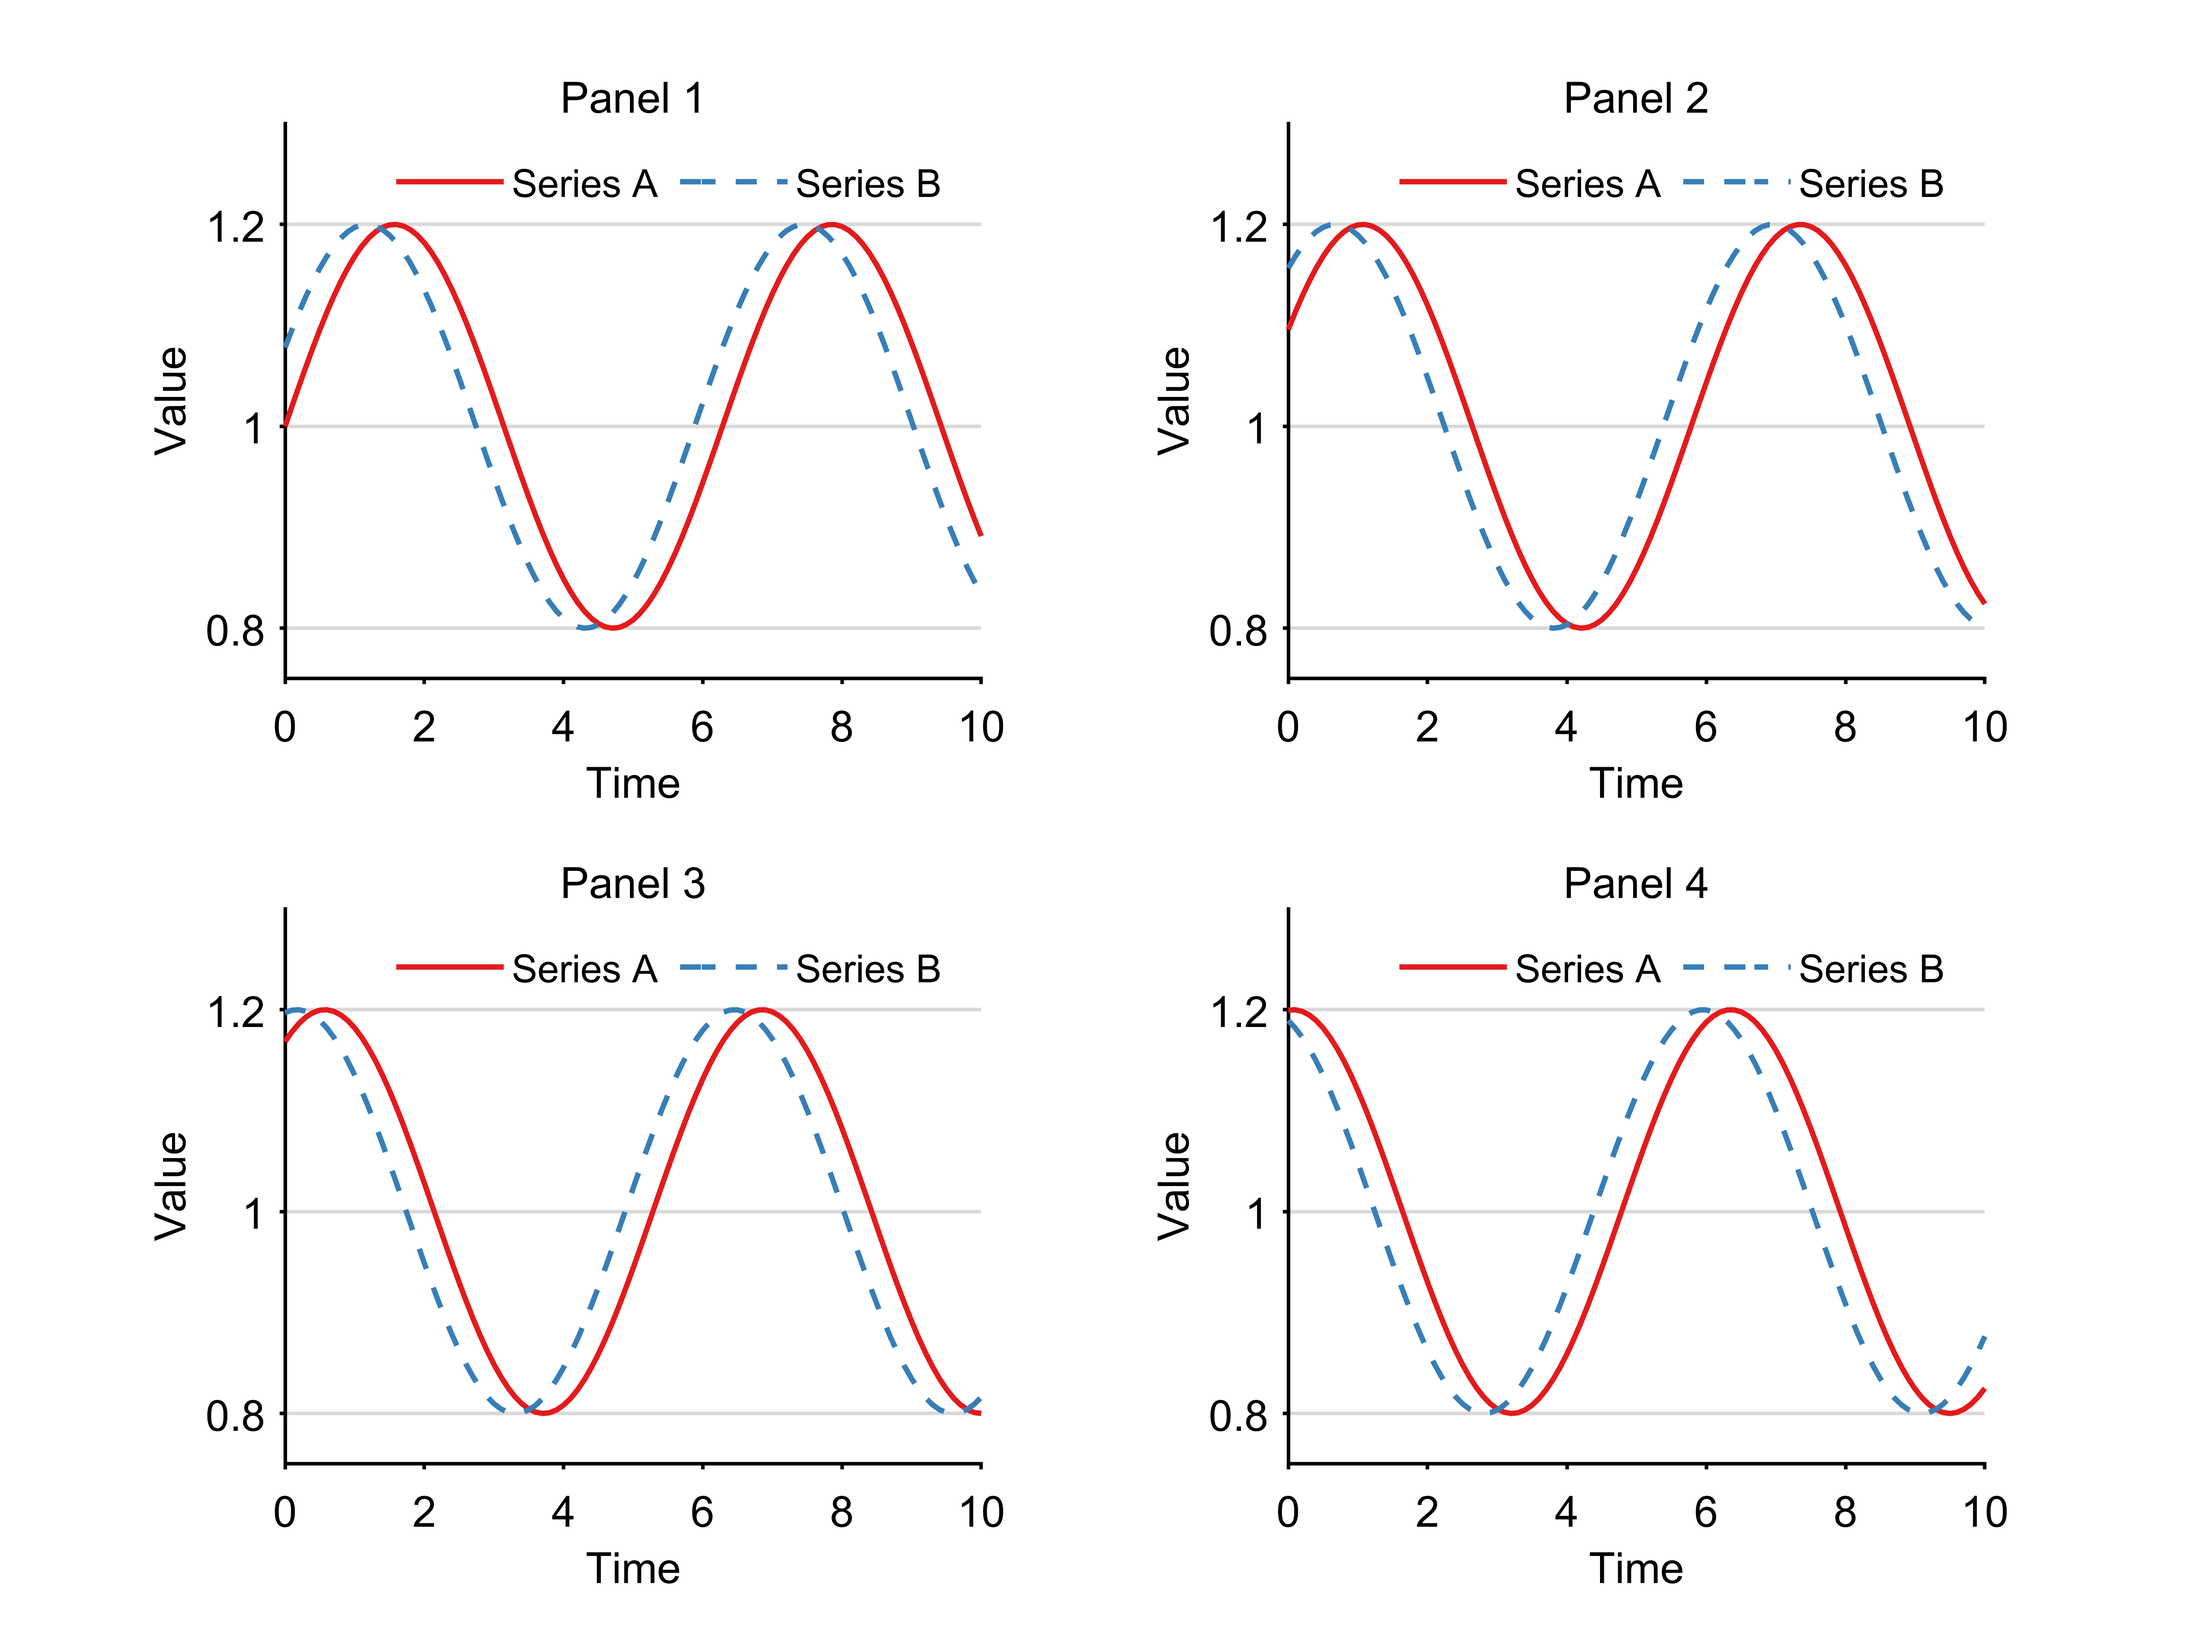
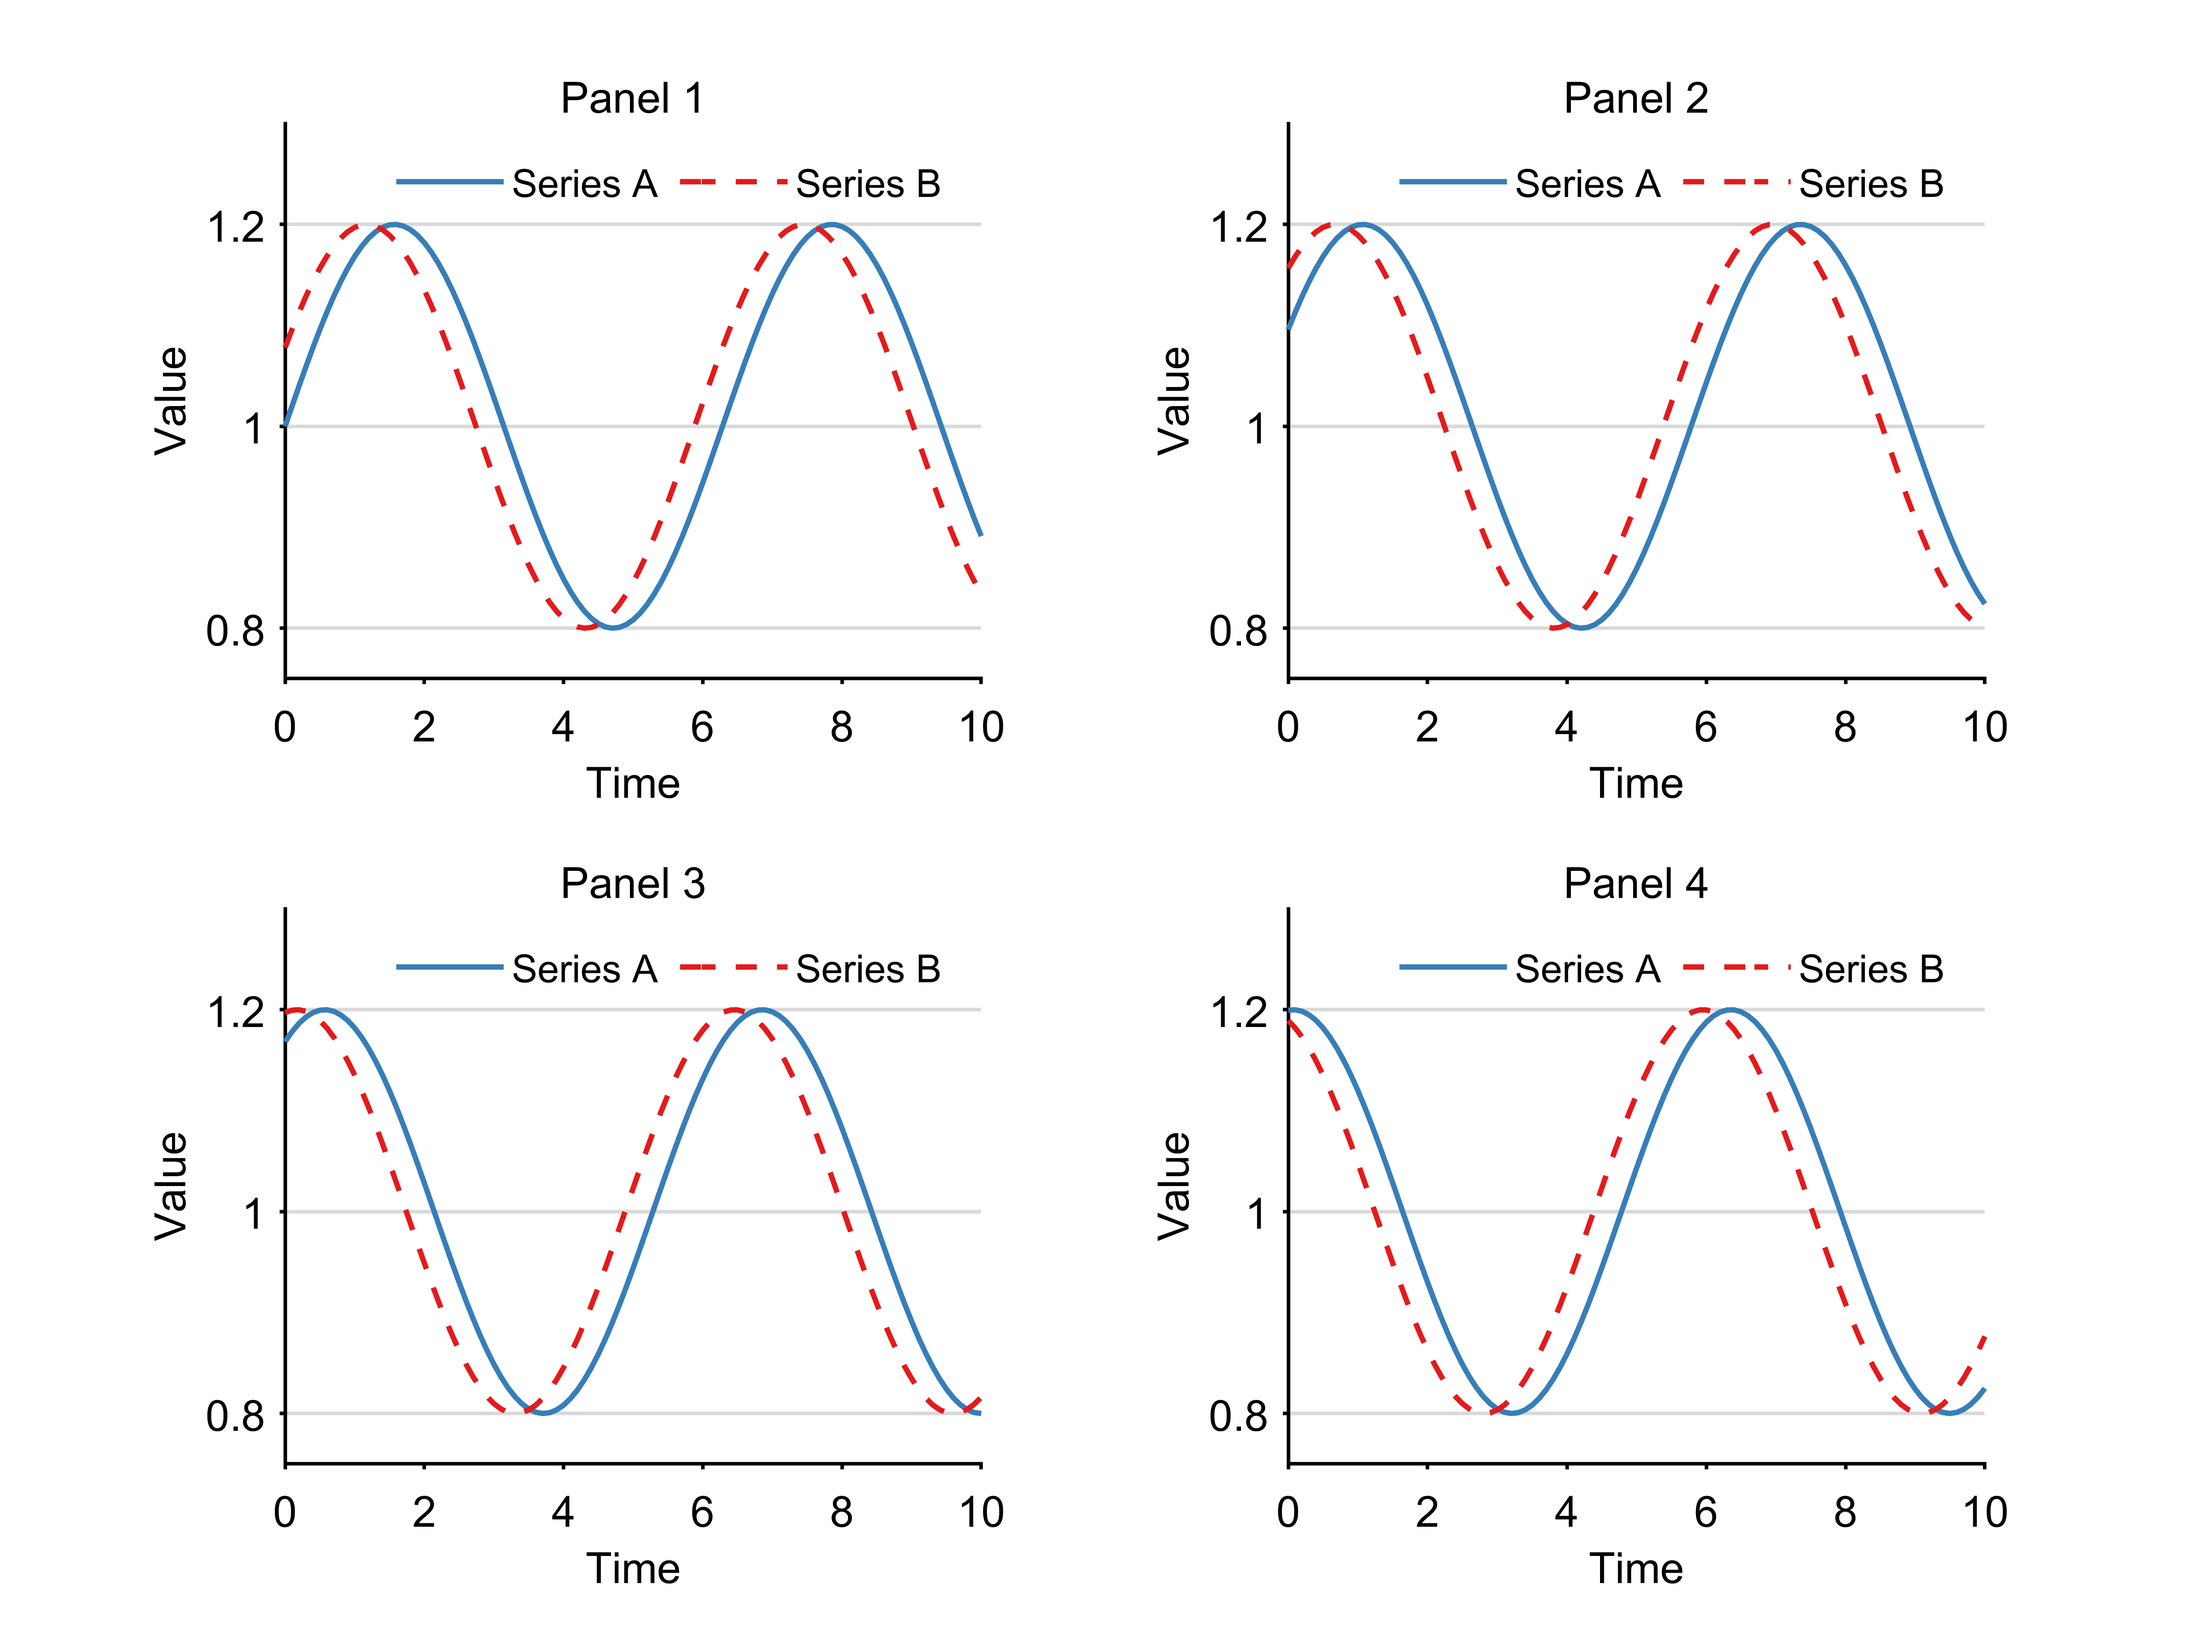
Use blue-first Set1 colour order in MATLAB and Python

diff --git a/figure_style.m b/figure_style.m
@@ -7,8 +7,8 @@
 % Tufte: Helvetica, black axes and grid, ticks out and short, horizontal
 % grid only, no box, axes line width 1, title in normal weight, labels
 % and title in the axes font size, white figures 8.5 by 6.375 inches
-% printed at their screen size. The palette is ColorBrewer's Set1: red,
-% blue, green, purple, orange, yellow, brown, pink and gray, set as the
+% printed at their screen size. The palette is ColorBrewer's Set1: blue,
+% red, green, purple, orange, yellow, brown, pink and gray, set as the
 % color order so that unstyled lines and bars take them in turn, and
 % returned by name in s, with the line width and font size in s.width and
 % s.font. The single figure of the template uses a 24 point font and
@@ -37,13 +37,13 @@ else
 end
 
 % Set1, ColorBrewer
-hex = {'e41a1c', '377eb8', '4daf4a', '984ea3', 'ff7f00', 'ffff33', 'a65628', 'f781bf', '999999'} ;
+hex = {'377eb8', 'e41a1c', '4daf4a', '984ea3', 'ff7f00', 'ffff33', 'a65628', 'f781bf', '999999'} ;
 set1 = zeros(9, 3) ;
 for i = 1:9
     set1(i, :) = transpose(sscanf(hex{i}, '%2x%2x%2x'))/255 ;
 end
 s.set1 = set1 ;
-s.red = set1(1, :) ; s.blue = set1(2, :) ; s.green = set1(3, :) ; s.purple = set1(4, :) ; s.orange = set1(5, :) ;
+s.blue = set1(1, :) ; s.red = set1(2, :) ; s.green = set1(3, :) ; s.purple = set1(4, :) ; s.orange = set1(5, :) ;
 s.yellow = set1(6, :) ; s.brown = set1(7, :) ; s.pink = set1(8, :) ; s.gray = set1(9, :) ; s.black = [0 0 0] ;
 s.width = lineWidth ;
 s.font = fontSize ;

diff --git a/tests/python/test_style.py b/tests/python/test_style.py
@@ -87,8 +87,8 @@ def test_style_colours_and_export_defaults(tmp_path):
     fig, ax = subplots(figsize=(4, 3))
     (first,) = ax.plot([0, 1], [1, 2])
     (second,) = ax.plot([0, 1], [2, 3])
-    assert first.get_color() == style.red == "#e41a1c"
-    assert second.get_color() == style.blue == "#377eb8"
+    assert first.get_color() == style.blue == "#377eb8"
+    assert second.get_color() == style.red == "#e41a1c"
     assert first.get_linewidth() == 3
     assert ax.get_xticklabels()[0].get_fontsize() == 24
     assert style.font_name in ("Helvetica", "Arial")
@@ -137,3 +137,23 @@ def test_png_300_defaults_override_inherited_export_settings(tmp_path):
             assert image.format == "PNG"
             assert image.size == (1200, 900)
             assert image.info["dpi"][0] == pytest.approx(300, abs=0.1)
+
+
+def test_complete_colour_cycle_and_named_colours():
+    style = figure_style()
+    expected = [
+        "#377eb8",
+        "#e41a1c",
+        "#4daf4a",
+        "#984ea3",
+        "#ff7f00",
+        "#ffff33",
+        "#a65628",
+        "#f781bf",
+        "#999999",
+    ]
+    names = ["blue", "red", "green", "purple", "orange", "yellow", "brown", "pink", "gray"]
+    fig, ax = subplots()
+    lines = [ax.plot([0, 1], [i, i + 1])[0] for i in range(10)]
+    assert [line.get_color() for line in lines] == expected + expected[:1]
+    assert [getattr(style, name) for name in names] == expected

diff --git a/tests/matlab/test_figure_ticks.m b/tests/matlab/test_figure_ticks.m
@@ -26,6 +26,21 @@ verifyEqual(testCase, ax.FontName, s.font_name) ;
 verifyEqual(testCase, label.FontName, s.font_name) ;
 end
 
+function testCompleteColourCycle(testCase)
+s = figure_style() ;
+expected = [55 126 184; 228 26 28; 77 175 74; 152 78 163; 255 127 0; ...
+    255 255 51; 166 86 40; 247 129 191; 153 153 153] / 255 ;
+fig = figure('Visible', 'off') ; ax = axes(fig) ; hold(ax, 'on') ;
+for i = 1:10
+    line = plot(ax, [0 1], [i i+1]) ;
+    verifyEqual(testCase, line.Color, expected(mod(i-1,9)+1,:), 'AbsTol', 1e-12) ;
+end
+names = {'blue','red','green','purple','orange','yellow','brown','pink','gray'} ;
+for i = 1:9
+    verifyEqual(testCase, s.(names{i}), expected(i,:), 'AbsTol', 1e-12) ;
+end
+end
+
 function testDefaultExportIsOnlyPngAt300Dpi(testCase)
 fig = figure('Visible', 'off', 'Position', [1 1 4 3]) ;
 ax = axes(fig) ; plot(ax, 1:3) ;

diff --git a/src/style_figures/__init__.py b/src/style_figures/__init__.py
@@ -16,8 +16,8 @@ from matplotlib import font_manager
 __all__ = ["figure_print", "figure_style", "figure_ticks", "subplots"]
 
 _SET1 = (
-    "#e41a1c",
     "#377eb8",
+    "#e41a1c",
     "#4daf4a",
     "#984ea3",
     "#ff7f00",
@@ -26,7 +26,7 @@ _SET1 = (
     "#f781bf",
     "#999999",
 )
-_NAMES = ("red", "blue", "green", "purple", "orange", "yellow", "brown", "pink", "gray")
+_NAMES = ("blue", "red", "green", "purple", "orange", "yellow", "brown", "pink", "gray")
 
 
 def _positive(value, name):

diff --git a/AGENTS.md b/AGENTS.md
@@ -8,6 +8,8 @@ Use Helvetica or Arial only. Prefer Helvetica when installed, otherwise Arial. F
 
 Keep the Set1 palette, normal-weight titles, horizontal grid, outward short ticks, 24-point text, 3-point lines and PNG export at 300 dpi. Preserve the original MIT attribution.
 
+The default colour cycle in both languages is blue, red, green, purple, orange, yellow, brown, pink and grey, all from Set1. Preserve named colour meanings when changing the cycle.
+
 For both MATLAB and Python, produce ONLY PNG at 300 dpi unless the user explicitly asks for another format or resolution. Do not automatically add PDF, SVG, JPEG or other companion exports. Apply this rule to new examples, plotting scripts and downstream projects that use this template. Existing historical files need not be deleted.
 
 Validate Python with pytest and Ruff, and MATLAB with runtests('tests/matlab'). Render and inspect the example figures when layout or style changes. Test visible behaviour through the public helpers, not source-code strings. Document usage changes in README.md.

diff --git a/README.md b/README.md
@@ -8,6 +8,8 @@ This repository was previously named `mvazcar/matlab-figures`. It extends [Pasca
 
 ## Use in Python
 
+The automatic colour order in both languages is blue, red, green, purple, orange, yellow, brown, pink and grey. All nine colours are from ColorBrewer Set1. The cycle restarts at blue after the ninth series. Named colours such as `s.blue` and `s.red` keep their meanings.
+
 Install into your project's Python environment:
 
 ```sh
